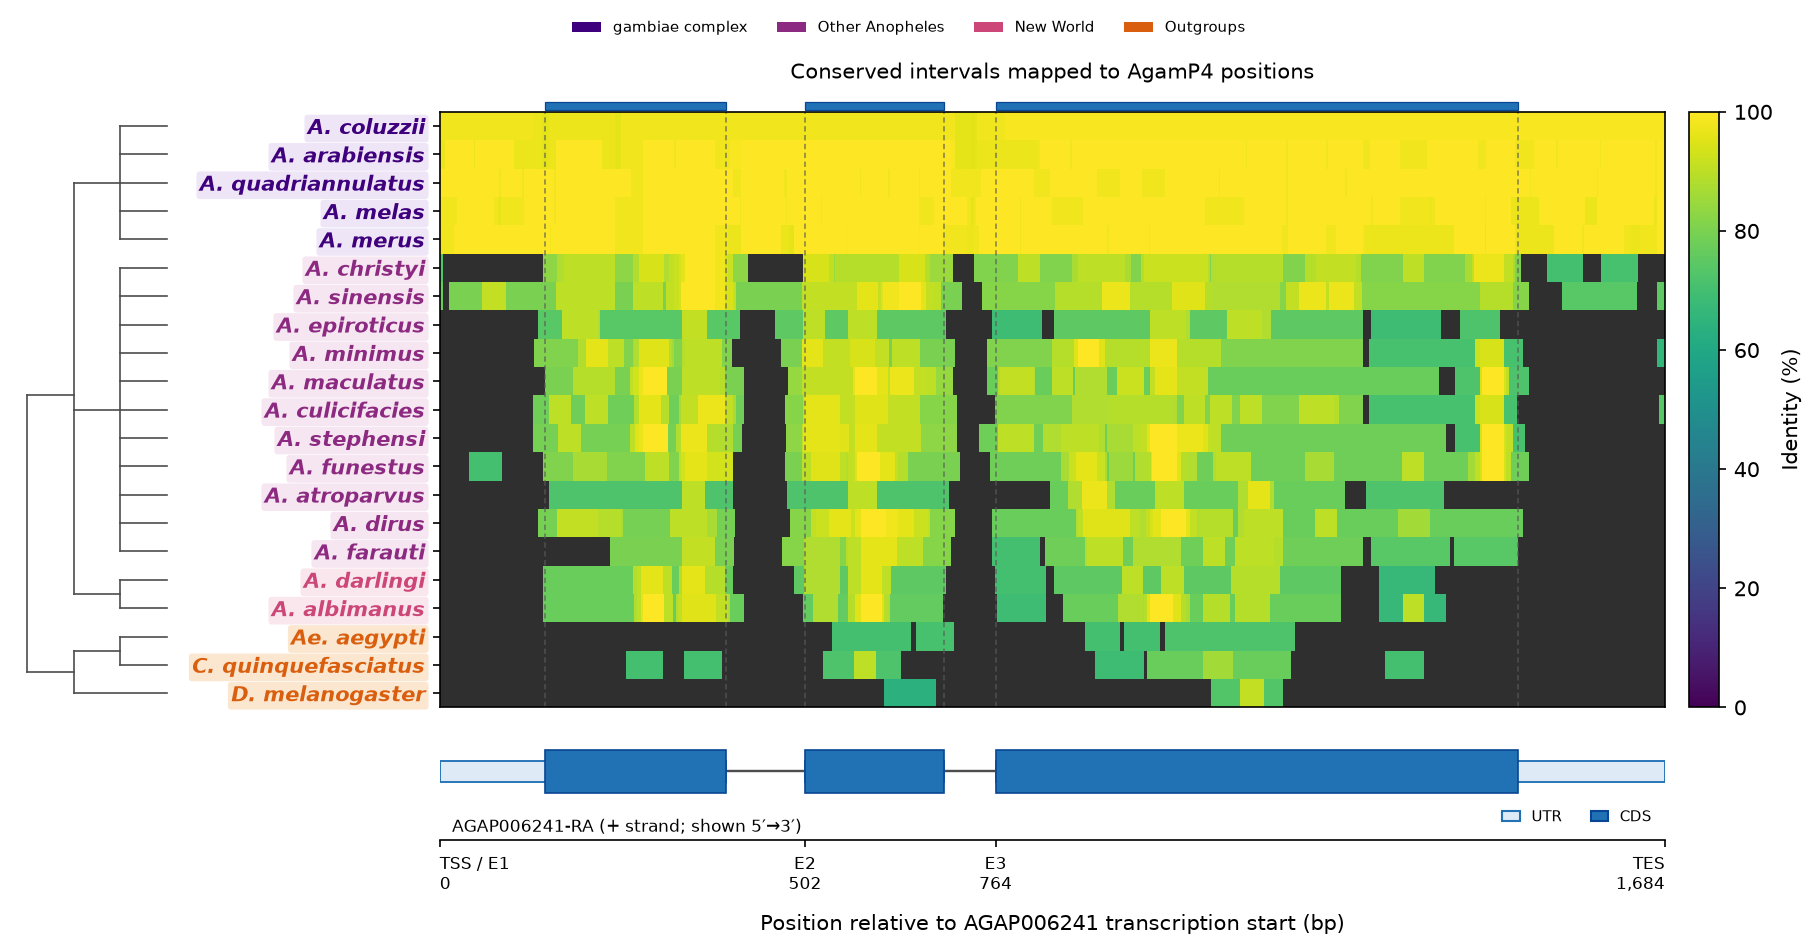
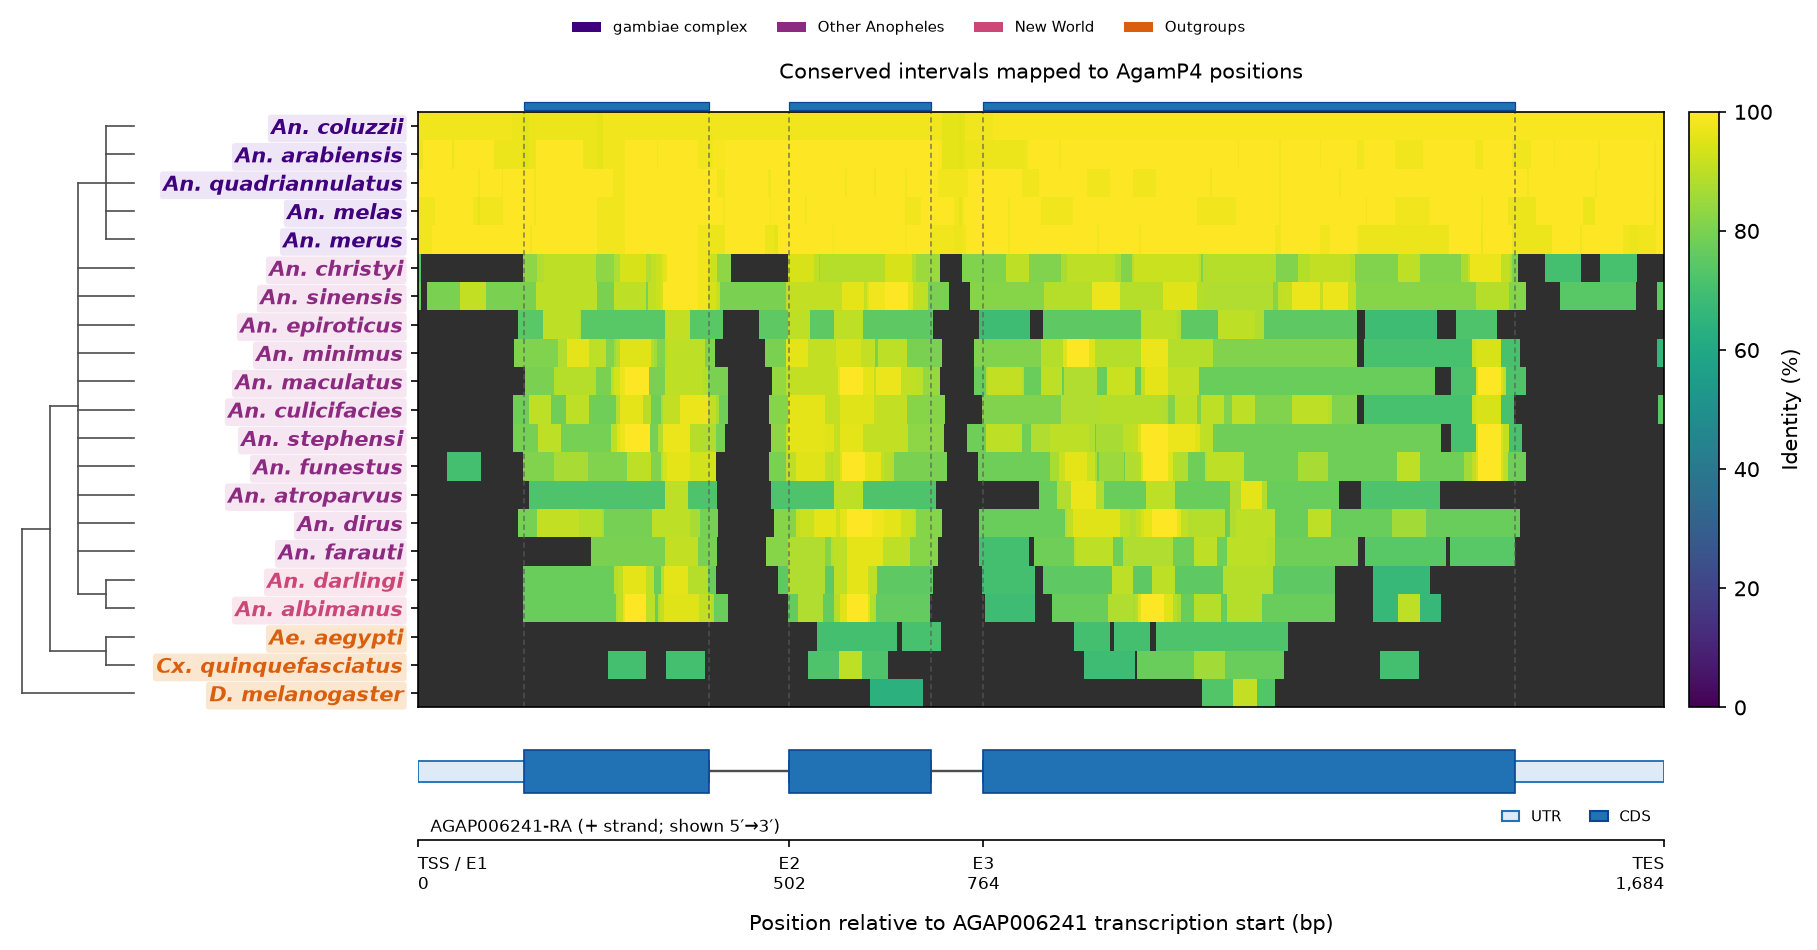
Document example figures and annotation provenance

diff --git a/README.md b/README.md
@@ -3,10 +3,12 @@
 **Use AgamCs in your browser:** [open the AgamCs research portal](https://tycour.github.io/AgamCs/).
 
 The GitHub Pages portal is the easiest way to query a current AgamP4.14
-`AGAP...` gene or exact transcript isoform on 2L, 2R, 3L, 3R, or X—or to enter
-AgamP4 coordinates—then inspect the figures and download exact values. It is
-available without installation. The command-line tool below is intended for
-local, batch, and reproducible workflows.
+`AGAP...` gene or exact transcript isoform on 2L, 2R, 3L, 3R, or X, or to enter
+AgamP4 genomic coordinates, then inspect the figures and download exact values.
+The conservation arrays are from the published AgamP4 dataset; AgamP4.14 refers
+to the current VectorBase annotation index used for gene and transcript lookup.
+The portal is available without installation. The command-line tool below is
+intended for local, batch, and reproducible workflows.
 
 AgamCs retrieves conservation data for the *Anopheles gambiae* AgamP4 genome
 and turns it into readable gene- or region-level figures. You can query an
@@ -76,9 +78,21 @@ python -m pytest
 
 ## Example figures
 
+The binned summary is the most readable view for genes and longer intervals. It
+compresses the base-level Cs and SNP-density series into bins, keeps the QC
+mask visible, and makes broad conservation and variation patterns easier to
+compare.
+
 ![Binned conservation and SNP-density summary for AGAP006241](results/AGAP006241/AGAP006241/AGAP006241_cs_snp_summary.png)
 
+The CLI also writes the original base-level Cs/SNP-density plot. It preserves
+the per-base signal, but it is visually dense even for a short gene, which is
+why the binned summary is usually the better presentation view.
+
 ![Base-level conservation and SNP-density plot for AGAP006241](results/AGAP006241/AGAP006241/AGAP006241_cs_snp_density.png)
+
+The heatmap shows cross-species identity for the same interval, with CDS guides
+aligned to the signal plots.
 
 ![AGAP006241 cross-species identity heatmap](results/AGAP006241/AGAP006241/AGAP006241_heatmap.png)
 
